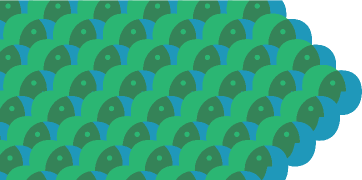
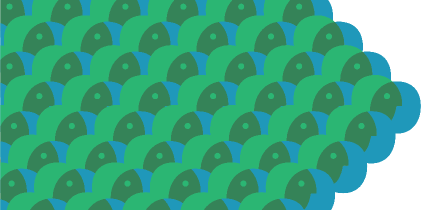
update: new size slider picture update: add khushboo on team update: improve style

diff --git a/templates/registration/registration_form.html b/templates/registration/registration_form.html
@@ -3,33 +3,35 @@
 {% block title %}{% trans "Register" %}{% endblock %}
 {% block content %}
 
-<div class="logbox">
-    <div style="font-size: 2em" class="fundinggreen form_center fundingtitle">{% trans "REGISTER" %}</div>
-    <br/>
-    {% if form.errors %}
-    <div class="ui-widget">
-        <div style="padding: 0pt 0.7em;" class="ui-state-error ui-corner-all">
-            <p><span style="float: left; margin-right: 0.3em;" class="ui-icon ui-icon-alert"></span>
-            {% trans "Please fix errors in registration form." %}
-            </p>
+<div style="">
+    <div class="logbox">
+        <div style="font-size: 2em" class="fundinggreen form_center fundingtitle">{% trans "REGISTER" %}</div>
+        <br/>
+        {% if form.errors %}
+        <div class="ui-widget">
+            <div style="padding: 0pt 0.7em;" class="ui-state-error ui-corner-all">
+                <p><span style="float: left; margin-right: 0.3em;" class="ui-icon ui-icon-alert"></span>
+                {% trans "Please fix errors in registration form." %}
+                </p>
+            </div>
         </div>
+        {% endif %}
+        <form action="{% url registration.views.register %}" method="POST" accept-charset="utf-8">
+            {% csrf_token %}
+            <table class="log_style">
+                {{ form.as_table }}
+            </table>
+            <img style="margin-top: 27px;" class="fundingright" src="/img/tete0.png">
+            <p>
+                {% trans "You acknowledge having read and accepted" %} <br/> <a href="/cgu">{% trans "the terms and conditions" %}</a> {% trans "by registering." %} 
+            </p>
+            <p class="continuebtn fundingleft clickable no_p_style" style="padding:1.5%"><input class="nobtnstyle" type="submit" value="{% trans 'Register' %}"></p>
+        </form>
     </div>
-    {% endif %}
-    <form action="{% url registration.views.register %}" method="POST" accept-charset="utf-8">
-        {% csrf_token %}
-        <table class="log_style">
-            {{ form.as_table }}
-        </table>
-        <img style="margin-top: 27px;" class="fundingright" src="/img/tete0.png">
-        <p>
-            {% trans "You acknowledge having read and accepted" %} <br/> <a href="/cgu">{% trans "the terms and conditions" %}</a> {% trans "by registering." %} 
-        </p>
-        <p class="continuebtn fundingleft clickable no_p_style" style="padding:1.5%"><input class="nobtnstyle" type="submit" value="{% trans 'Register' %}"></p>
-    </form>
-</div>
 
-{% with next=request.GET.next %}
-    {% include 'registration/register_block.html' %}
-{% endwith %}
+    {% with next=request.GET.next %}
+        {% include 'registration/register_block.html' %}
+    {% endwith %}
+</div>
 
 {% endblock %}

diff --git a/templates/funding/feature.html b/templates/funding/feature.html
@@ -22,7 +22,7 @@
         <input id="feature_{{task.id}}_edit" class="featuretitle invisible" value="{{task.title}}">
         </form>
         <div class="fundingright" style="min-width: 30%;">
-            
+            <div class="funding_space">{% trans "Funding phase" %}:</div>
             <div class="progressbar">
                 <span id="progressbar_{{object.id}}" class="progress" style="width:{% widthratio task.allbid_sum|default:0 task.get_budget|default:0 100 %}%;"></span>
                 <span id="progresslabel_{{object.id}}" class="progresstitle" >{% widthratio task.allbid_sum|default:0 task.get_budget|default:0 100 %}%</span>
@@ -49,22 +49,21 @@
                 </form>
             {% endif %}
             
+            <div class="profile_info">
+                <img src="/img/logo_small.png" class="column">
+                <div><p><a class="clickable" onclick="showPopup(document.getElementById('featurebudget_{{task.id}}'))">{{task.bid_set.count}} {% trans "users" %}</a></p></div>
+            </div>
+            
             {% include 'funding/project_actions.html' %}
             <div class="featurebtns">
             {% if task.state < 4 and task|can_bid:user or not user.is_authenticated %}
                 <span class="supportbtn clickable" onclick="showPopup(document.getElementById('bidpopup_{{task.id}}')); ">{% trans "Order the feature" %}</span>
             {% endif %}
             <br/>
-            
             {% if task.state < 4 and task|can_manage:user and object.bid_sum and task.missing_bid %}
                 <span class="supportbtn_complete clickable" onclick="showPopup(document.getElementById('completepopup_{{task.id}}'));">{% trans "Complete the fund" %}</span>
             {% endif %}
             
-            </div>
-            
-            <div class="profile_info">
-                <img src="/img/logo_small.png" class="column">
-                <div><p><a class="clickable" onclick="showPopup(document.getElementById('featurebudget_{{task.id}}'))">{{task.bid_set.count}} {% trans "users" %}</a></p></div>
             </div>
             
             {% if task|can_manage:user %}

diff --git a/templates/funding/project_detail.html b/templates/funding/project_detail.html
@@ -191,7 +191,7 @@
     </div>
     
     <div class="myprofile column-right project column_right_padding" style="margin-bottom: 10px;overflow: hidden;">
-<!--        <div class="clickable featuretitle funding_space">{% trans "Finance software" %}</div>-->
+        <div class="clickable featuretitle funding_space">{{object.tasks.count}} {% trans "to be funded" %}</div>
         {% with project.descendants|filter_read:user as descendants %}
         <div>
             <div class="progressbar">

diff --git a/templates/funding/presentation.html b/templates/funding/presentation.html
@@ -44,9 +44,9 @@
             </div>
         </div>
         <div class="column">
-            <img class="teampicture" src="/img/team/daniel.png" /> 
+            <img class="teampicture" src="/img/team/khushboo.png" /> 
             <div class="column">
-                <div class="usertitle">Daniel</div>
+                <div class="usertitle">Khushboo</div>
                 <div class="cleared">{% trans "Product manager" %}</div>
             </div>
         </div>

diff --git a/public/css/oifunding.css b/public/css/oifunding.css
@@ -32,6 +32,7 @@
     text-transform: uppercase;
     border-top: 1px solid #E0E0E0;
     margin: 8px 0px;
+    padding: 4px 0px;
 }
 .presnavsection{
     margin-bottom: 3px;
@@ -1254,7 +1255,7 @@ body {
     margin-left: 130px;
 }
 .sliderimgcloser4{
-    margin-left: -30px;
+    margin-left: -90px;
     margin-top: 0px;
 }
 .slidericons {

diff --git a/public/css/oi.css b/public/css/oi.css
@@ -736,7 +736,7 @@ div.spectypes {
     border-radius: 20px 20px 20px 20px;
     float: left;
     margin-left: 2%;
-    padding: 3%;
+    padding: 2%;
     width: 41%;
 }
 .continuebtn{

diff --git a/settings_common.py b/settings_common.py
@@ -86,7 +86,7 @@ TEMP_DIR = HOME_DIR + 'tmp/'
 MEDIA_URL = '/'
 
 # Redirect params compressor to compress css and js files
-COMPRESS_ENABLED = False
+COMPRESS_ENABLED = True
 COMPRESS_ROOT = ''
 COMPRESS_URL = '/'
 COMPRESS_OUTPUT_DIR = 'static/'
